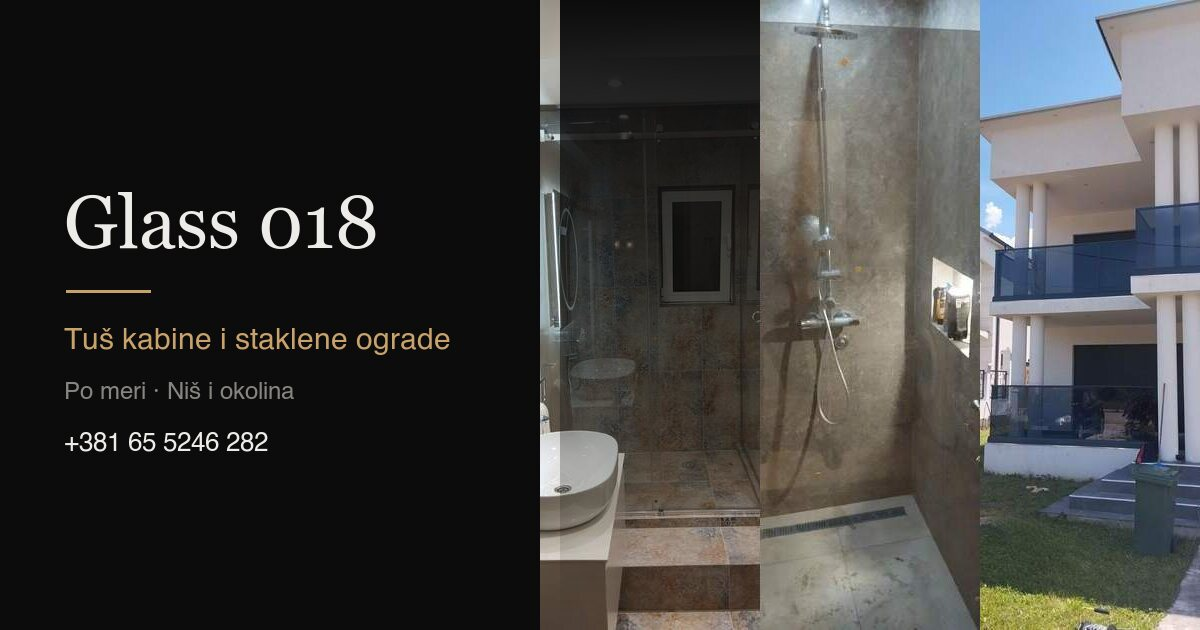
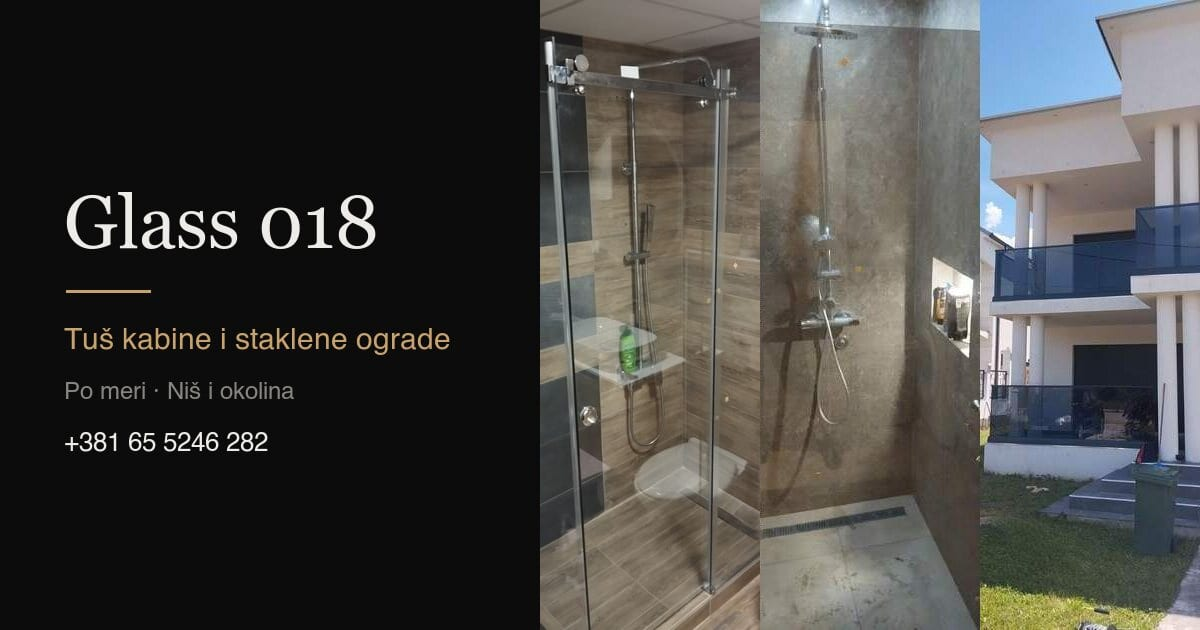
Uklonjeno pet fotografija po DMCA prijavi i Milanovoj proveri

Changed region(s): [[0.4317, 0.0, 0.6475, 1.0]]

diff --git a/src/content/modeli/alfa-klizna.md b/src/content/modeli/alfa-klizna.md
@@ -11,7 +11,7 @@ detalji:
   - "Zaptivke po celoj visini"
 osnovnaCena: 26300
 imaDubinu: true
-predstavnik: 6
+predstavnik: 3
 redosled: 7
 ---
 
